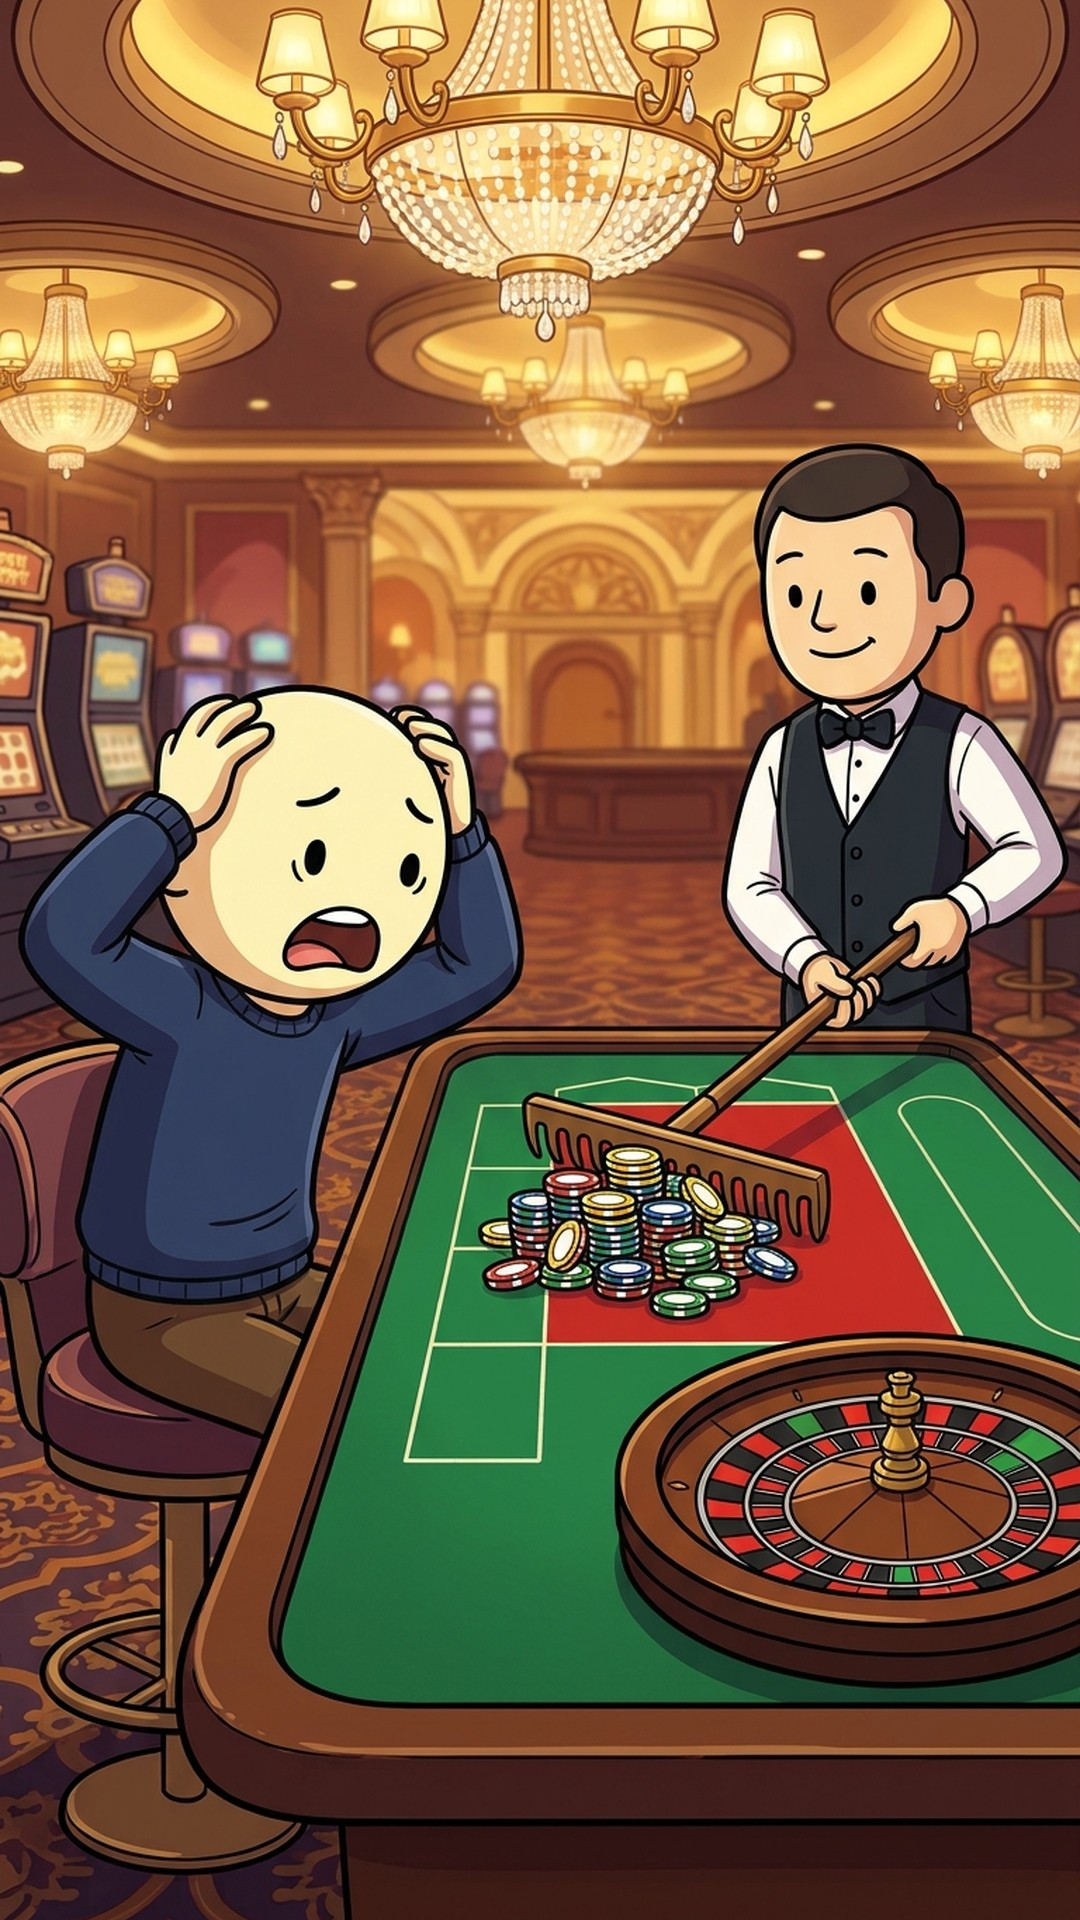
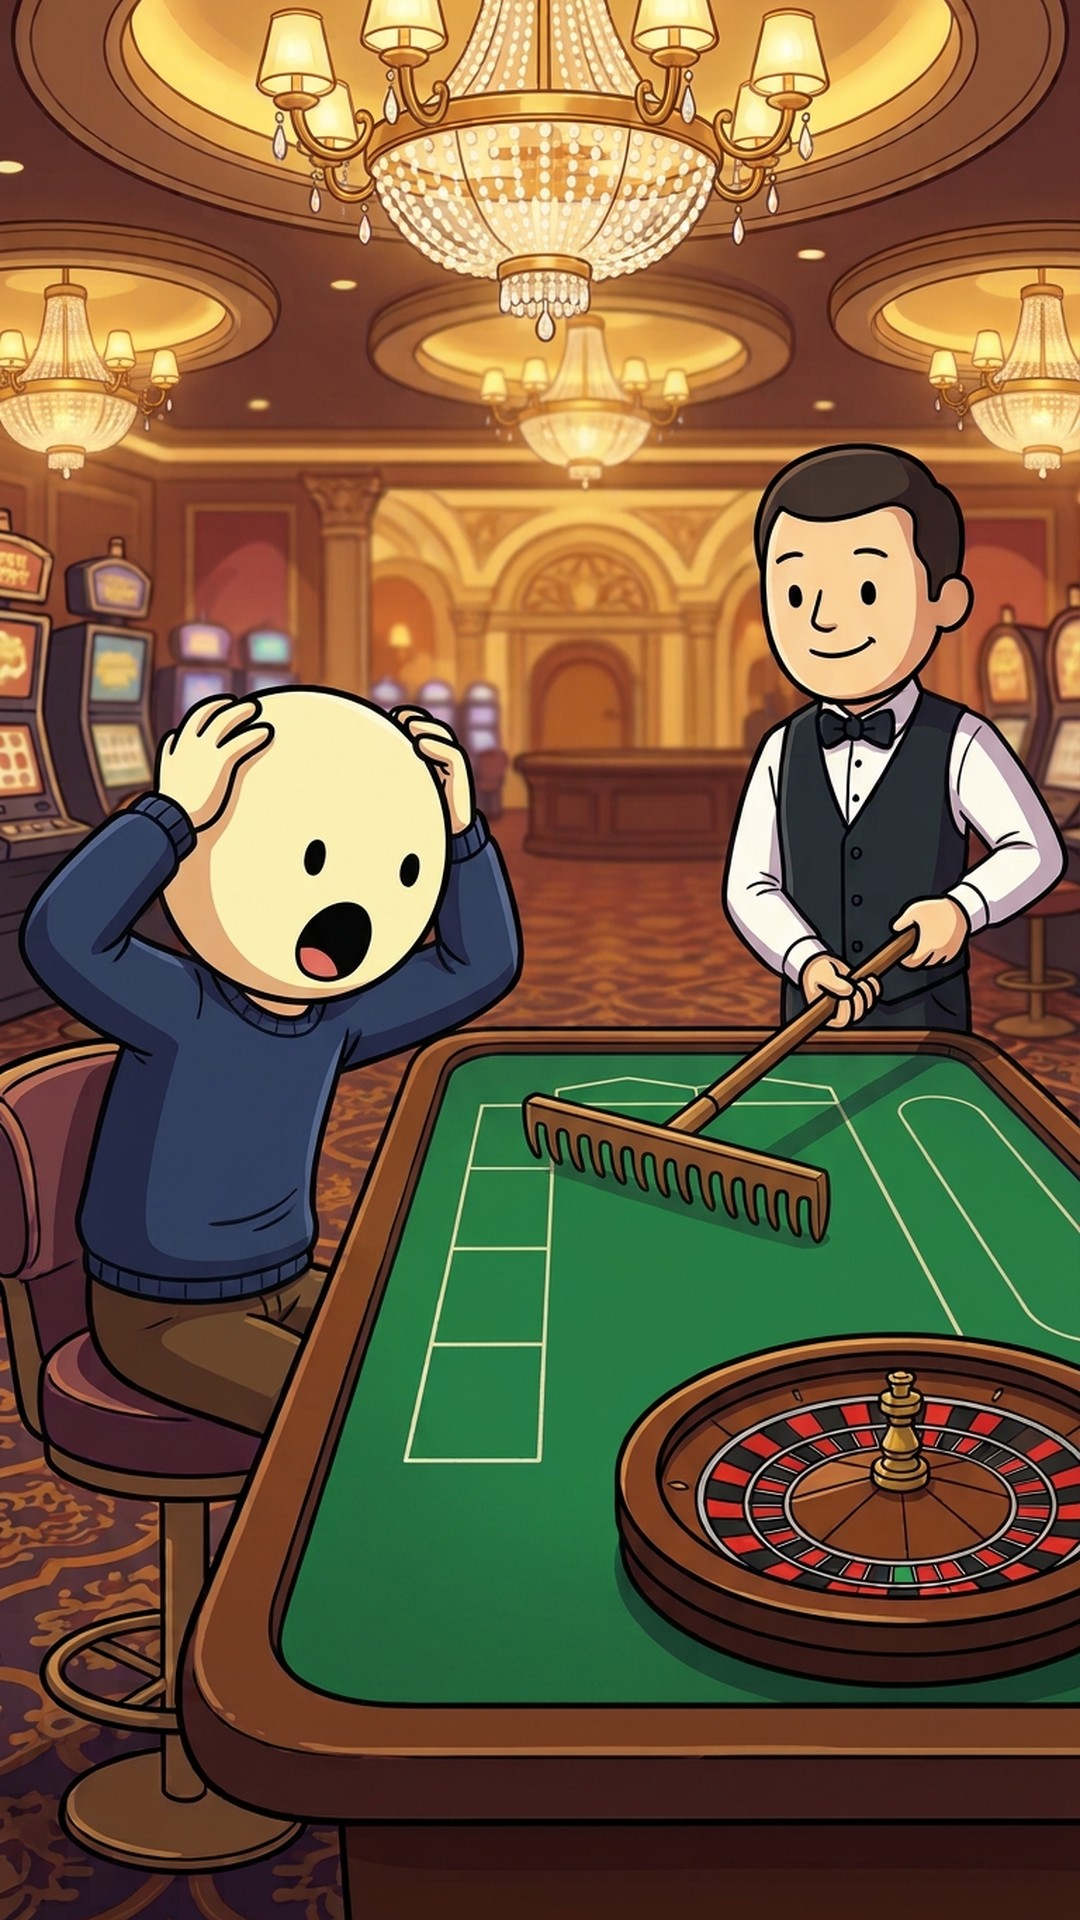
tt_casino: roulette TikTok; fixed character descriptions
Claude-Session: https://claude.ai/code/session_01VsmjVkz94jRoriUFfady3i

diff --git a/mg/lib/characters.py b/mg/lib/characters.py
@@ -1,0 +1,8 @@
+# Feste Figuren-Beschreibungen fuer ALLE Gemini-Bilder (Alex 2026-10-23: Figuren muessen in jedem Video gleich aussehen).
+# Immer woertlich in den Prompt kopieren. Gefuehle NUR ueber Mund + Koerperhaltung, nie ueber Brauen/Ohren.
+SAM = ("Sam: a simple cartoon man. His head is a big, perfectly round, smooth cream-colored circle, about as wide as his shoulders. "
+       "His head has NO ears, NO hair, NO eyebrows, NO nose, NO wrinkles. His face is ONLY two small solid black dot eyes and one simple "
+       "black line mouth. He wears a plain navy blue sweater and brown pants. Show emotions only with the mouth shape and body pose.")
+VICTOR = ("Victor: a rich older cartoon man with the same big, perfectly round, smooth cream-colored head as Sam (NO ears, NO eyebrows, NO nose), "
+          "small solid black dot eyes, a neat grey mustache, small grey hair tufts only on the sides of the head, elegant purple suit, gold tie.")
+RULE = ("Keep the characters exactly like in the reference image above: same head shape, no ears, no eyebrows, no nose, dot eyes. ")

diff --git a/mg/ANLEITUNG.md b/mg/ANLEITUNG.md
@@ -59,3 +59,4 @@ Rendern auf GitHub: Projektname in `mg/render_queue.txt` eintragen und pushen (W
 - Gemini: Bilder kommen teils als kaputte <img> (naturalWidth 0) -> src neu setzen; bei 'nur textbasierte KI' ist das Tageslimit erreicht.
 - TikToks: KEINE Hintergrundmusik (Alex 2026-10-22). Loop nahtlos: letzter Frame = erster Frame (gleiches Bild, gleicher Zaehler, Kamera zurueck auf Startzustand, Untertitel am Ende ausblenden), tail 0.1 s, letzter Satz geht grammatisch in den ersten ueber.
 - Fakten vor jedem Video gegen Primaer-/serioese Quellen pruefen und Quellen nennen (Alex fand Zahlen verdaechtig).
+- Figuren (2026-10-23): IMMER mg/lib/characters.py (SAM/VICTOR) woertlich nutzen; keine Ohren, keine Augenbrauen, keine Nase, nur Punktaugen + Strichmund. Alle Bilder eines Videos im selben Gemini-Chat erzeugen und auf das Referenzbild verweisen. Jedes Bild vor Verwendung auf Ohren/Brauen pruefen.
